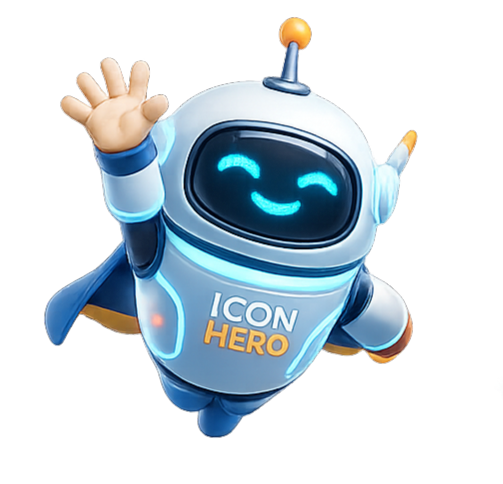
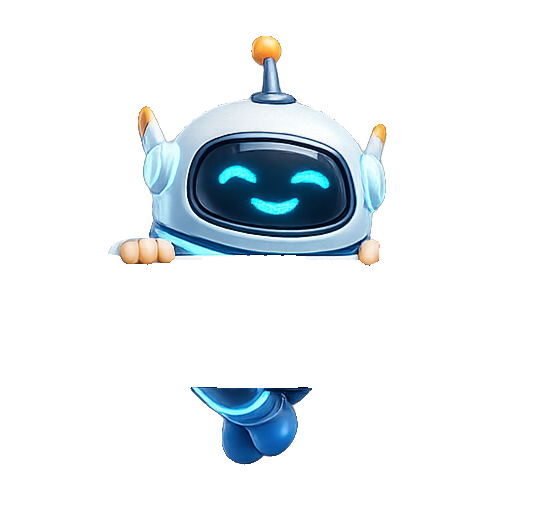
feat: 主題與吉祥物互動全面優化
- 預設主題改為明亮場景（移除 OS 跟隨）
- 主題切換按鈕改為太陽/月亮圖示
- 明亮場景 DropZone 吉祥物移至最上層（修復 overflow-hidden 裁切問題）
- 已完成區 bot 改用 bot-fly.png 趴邊框效果，hero 改用鉛筆英雄圖
- 修復 setIsProcessing 未定義導致上傳/URL 功能失效的 bug
- 拖曳 URL 去重（Set 避免 text/plain + text/uri-list 重複）

diff --git a/src/components/WorkspaceDropZone.tsx b/src/components/WorkspaceDropZone.tsx
@@ -38,22 +38,27 @@ export function WorkspaceDropZone({ onDrop, isProcessing, mascotType = 'bot', ha
       })
     }
 
-    if (e.dataTransfer.types.includes('text/plain')) {
-      const text = e.dataTransfer.getData('text/plain')
-      if (text && (text.startsWith('http://') || text.startsWith('https://'))) {
-        items.push(text)
-      }
-    }
+    // 收集 URL（text/uri-list 優先，避免與 text/plain 重複）
+    const urlSet = new Set<string>()
 
     if (e.dataTransfer.types.includes('text/uri-list')) {
       const uris = e.dataTransfer.getData('text/uri-list').split('\n')
       uris.forEach(uri => {
         const trimmed = uri.trim()
-        if (trimmed && (trimmed.startsWith('http://') || trimmed.startsWith('https://'))) {
-          items.push(trimmed)
+        if (trimmed && !trimmed.startsWith('#') && (trimmed.startsWith('http://') || trimmed.startsWith('https://'))) {
+          urlSet.add(trimmed)
         }
       })
     }
+
+    if (e.dataTransfer.types.includes('text/plain')) {
+      const text = e.dataTransfer.getData('text/plain').trim()
+      if (text && (text.startsWith('http://') || text.startsWith('https://'))) {
+        urlSet.add(text)
+      }
+    }
+
+    urlSet.forEach(url => items.push(url))
 
     if (items.length > 0) {
       onDrop(items)
@@ -91,23 +96,40 @@ export function WorkspaceDropZone({ onDrop, isProcessing, mascotType = 'bot', ha
       onPaste={handlePaste}
       tabIndex={0}
     >
-      <div className={`relative border-2 border-dashed rounded-2xl p-12 transition-all duration-300 overflow-hidden ${
-        isDragActive 
-          ? 'border-primary bg-primary/10 shadow-[0_0_30px_rgba(var(--primary),0.2)]' 
+      <div className={`relative border-2 border-dashed rounded-2xl p-12 transition-all duration-300 ${
+        isDragActive
+          ? 'border-primary bg-primary/10 shadow-[0_0_30px_rgba(var(--primary),0.2)]'
           : 'border-border bg-secondary/5 hover:border-primary/50 hover:bg-secondary/10 hover:shadow-[0_0_30px_rgba(var(--primary),0.1)]'
       }`}>
 
-        {/* Background Grid Pattern */}
-        <div className="absolute inset-0 opacity-[0.03] pointer-events-none"
-          style={{ backgroundImage: 'radial-gradient(circle, currentColor 1px, transparent 1px)', backgroundSize: '20px 20px' }}>
+        {/* 裝飾層：獨立 overflow-hidden，不影響吉祥物 */}
+        <div className="absolute inset-0 overflow-hidden rounded-2xl pointer-events-none">
+          {/* Background Grid Pattern */}
+          <div className="absolute inset-0 opacity-[0.03]"
+            style={{ backgroundImage: 'radial-gradient(circle, currentColor 1px, transparent 1px)', backgroundSize: '20px 20px' }}>
+          </div>
+          {/* Corner Decoration */}
+          <motion.div
+            animate={{ rotate: 360 }}
+            transition={{ duration: 10, repeat: Infinity, ease: "linear" }}
+            className="absolute -top-10 -right-10 w-32 h-32 bg-primary/5 rounded-full blur-2xl"
+          />
+          <motion.div
+            animate={{ rotate: -360 }}
+            transition={{ duration: 15, repeat: Infinity, ease: "linear" }}
+            className="absolute -bottom-10 -left-10 w-32 h-32 bg-secondary/5 rounded-full blur-2xl"
+          />
         </div>
 
         <div className="flex flex-col items-center justify-center gap-6 relative z-10">
 
           {/* MASCOT DISPLAY vs FOLDER ICON */}
-          {/* If NO completed items, show Mascot in DropZone. If completed, show simple Folder (Mascot moves to Instructions) */}
           {!hasCompletedItems ? (
-            <div className="scale-125 transition-transform duration-300 group-hover:scale-[1.35]">
+            <div className={`transition-transform duration-300 relative z-20 ${
+              mascotType === 'hero'
+                ? 'scale-[1.513] group-hover:scale-[1.634]'
+                : 'scale-125 group-hover:scale-[1.35]'
+            }`}>
               <MascotDisplay
                 type={mascotType}
                 state={isProcessing ? 'processing' : isDragActive ? 'analyzing' : 'idle'}
@@ -144,18 +166,6 @@ export function WorkspaceDropZone({ onDrop, isProcessing, mascotType = 'bot', ha
             </motion.div>
           </div>
         </div>
-
-        {/* Corner Decoration */}
-        <motion.div
-          animate={{ rotate: 360 }}
-          transition={{ duration: 10, repeat: Infinity, ease: "linear" }}
-          className="absolute -top-10 -right-10 w-32 h-32 bg-primary/5 rounded-full blur-2xl pointer-events-none"
-        />
-        <motion.div
-          animate={{ rotate: -360 }}
-          transition={{ duration: 15, repeat: Infinity, ease: "linear" }}
-          className="absolute -bottom-10 -left-10 w-32 h-32 bg-secondary/5 rounded-full blur-2xl pointer-events-none"
-        />
       </div>
     </motion.div>
   )

diff --git a/src/components/WorkspaceQueue.tsx b/src/components/WorkspaceQueue.tsx
@@ -217,25 +217,35 @@ export function WorkspaceQueue({
 
       {completedItems.length > 0 && (
         <div className="relative">
-          {/* 吉祥物 - 向下看，遮罩穿透效果 */}
-          {/* Tool Hero (hero) → PNG 按鍵上方左側，放大110%，向上移動30px */}
-          {/* Tech-Bot (bot) → ICO 按鍵上方，向上移動13px */}
-          <div className={`absolute z-20 pointer-events-none ${
+          {/* 吉祥物 - Bot: 趴在卡片邊框上，z-10 讓卡片遮住白板身體，只露頭部和手 */}
+          {/* Hero: 原有浮在上方效果不變 */}
+          <div className={`absolute pointer-events-none ${
             mascotType === 'hero'
-              ? 'right-[210px] -top-[70px]'  // PNG 按鍵上方，向上移動30px (原-40px → -70px)
-              : 'right-[110px] -top-[53px]'  // ICO 按鍵上方，向上移動13px (原-40px → -53px)
+              ? 'z-20 right-[213px] -top-[84px]'
+              : 'z-10 right-[80px] -top-[73px]'
           }`}>
-            <MascotDisplay
-              type={mascotType}
-              state="success"
-              variant="lookDown"
-              className={`drop-shadow-2xl w-32 h-32 ${
-                mascotType === 'hero' ? 'scale-110' : ''
-              }`}
-            />
+            {mascotType === 'bot' ? (
+              <div className="scale-[1.3] origin-top">
+                <MascotDisplay
+                  type="bot"
+                  state="idle"
+                  variant="lookDown"
+                  className="drop-shadow-2xl"
+                />
+              </div>
+            ) : (
+              <MascotDisplay
+                type="hero"
+                state="analyzing"
+                variant="lookDown"
+                className="drop-shadow-2xl scale-[1.3]"
+              />
+            )}
           </div>
 
-          <div className="overflow-hidden rounded-xl border border-primary/20 p-4">
+          <div className={`overflow-hidden rounded-xl border border-primary/20 p-4 ${
+            mascotType === 'bot' ? 'relative z-20' : ''
+          }`}>
             <div className="flex items-center gap-3 mb-3">
               <h3 className="text-sm font-semibold text-muted-foreground">已完成</h3>
             </div>

diff --git a/src/App.tsx b/src/App.tsx
@@ -1,6 +1,6 @@
 import { useState, useRef, useCallback, useEffect, lazy, Suspense } from 'react'
 import { motion, AnimatePresence } from 'framer-motion'
-import { UploadSimple, Link as LinkIcon } from '@phosphor-icons/react'
+import { UploadSimple, Link as LinkIcon, Sun, Moon } from '@phosphor-icons/react'
 import { Button } from '@/components/ui/button'
 import { Input } from '@/components/ui/input'
 import { Toaster } from '@/components/ui/sonner'
@@ -20,8 +20,8 @@ const ApplyIconDialog = lazy(() => import('@/components/ApplyIconDialog').then(m
 
 
 function App() {
-  // Theme State
-  const [theme, setTheme] = useState<'light' | 'dark'>('dark')
+  // Theme State — 預設明亮場景
+  const [theme, setTheme] = useState<'light' | 'dark'>('light')
 
   useEffect(() => {
     const root = window.document.documentElement
@@ -34,7 +34,7 @@ function App() {
   }
 
   // Original Logic
-  const [isProcessing] = useState(false)
+  const [isProcessing, setIsProcessing] = useState(false)
   const [urlInput, setUrlInput] = useState('')
   const [showUrlInput, setShowUrlInput] = useState(false)
   const [workspaceItems, setWorkspaceItems] = useState<WorkspaceItem[]>([])
@@ -263,11 +263,10 @@ function App() {
               <div className="flex items-center gap-4">
                 <Button
                   variant="outline"
-                  size="sm"
+                  size="icon"
                   onClick={toggleTheme}
-                  className="gap-2"
                 >
-                  {theme === 'dark' ? '切換至 Creative Studio (亮色)' : '切換至 Neon Forge (暗色)'}
+                  {theme === 'dark' ? <Sun size={18} /> : <Moon size={18} />}
                 </Button>
               </div>
             </div>

diff --git a/src/components/MascotDisplay.tsx b/src/components/MascotDisplay.tsx
@@ -3,6 +3,7 @@ import { Cube } from '@phosphor-icons/react'
 
 // Bot Images
 import botFlyImage from '@/assets/bot-fly.png'
+import botFlyHeroImage from '@/assets/bot-fly-hero.png'
 import botWaveImage from '@/assets/bot-wave.png'
 import botThumbsupImage from '@/assets/bot-thumbsup.png'
 import botHoldImage from '@/assets/bot-hold.png'
@@ -31,12 +32,12 @@ export function MascotDisplay({ type = 'bot', state = 'idle', className = '', va
   // ------------------------------------------------------------------
   const getBotImage = () => {
     switch (state) {
-      case 'idle': return botFlyImage
+      case 'idle': return variant === 'lookDown' ? botFlyImage : botFlyHeroImage
       case 'analyzing': return botHoldImage
       case 'processing': return botThumbsupImage
       case 'success': return botWaveImage
       case 'error': return botHoldImage
-      default: return botFlyImage
+      default: return variant === 'lookDown' ? botFlyImage : botFlyHeroImage
     }
   }
 
@@ -47,7 +48,7 @@ export function MascotDisplay({ type = 'bot', state = 'idle', className = '', va
         src={getBotImage()}
         initial={{ y: 0, opacity: 0, scale: 0.9 }}
         animate={{ 
-          y: state === 'processing' ? [0, -10, 0] : variant === 'lookDown' ? [0, -5, 0] : [0, -15, 0],
+          y: state === 'processing' ? [0, -10, 0] : variant === 'lookDown' ? [0, -2, 0] : [0, -15, 0],
           opacity: 1,
           scale: 1,
           rotate: state === 'processing' ? [0, 2, -2, 0] : 0
